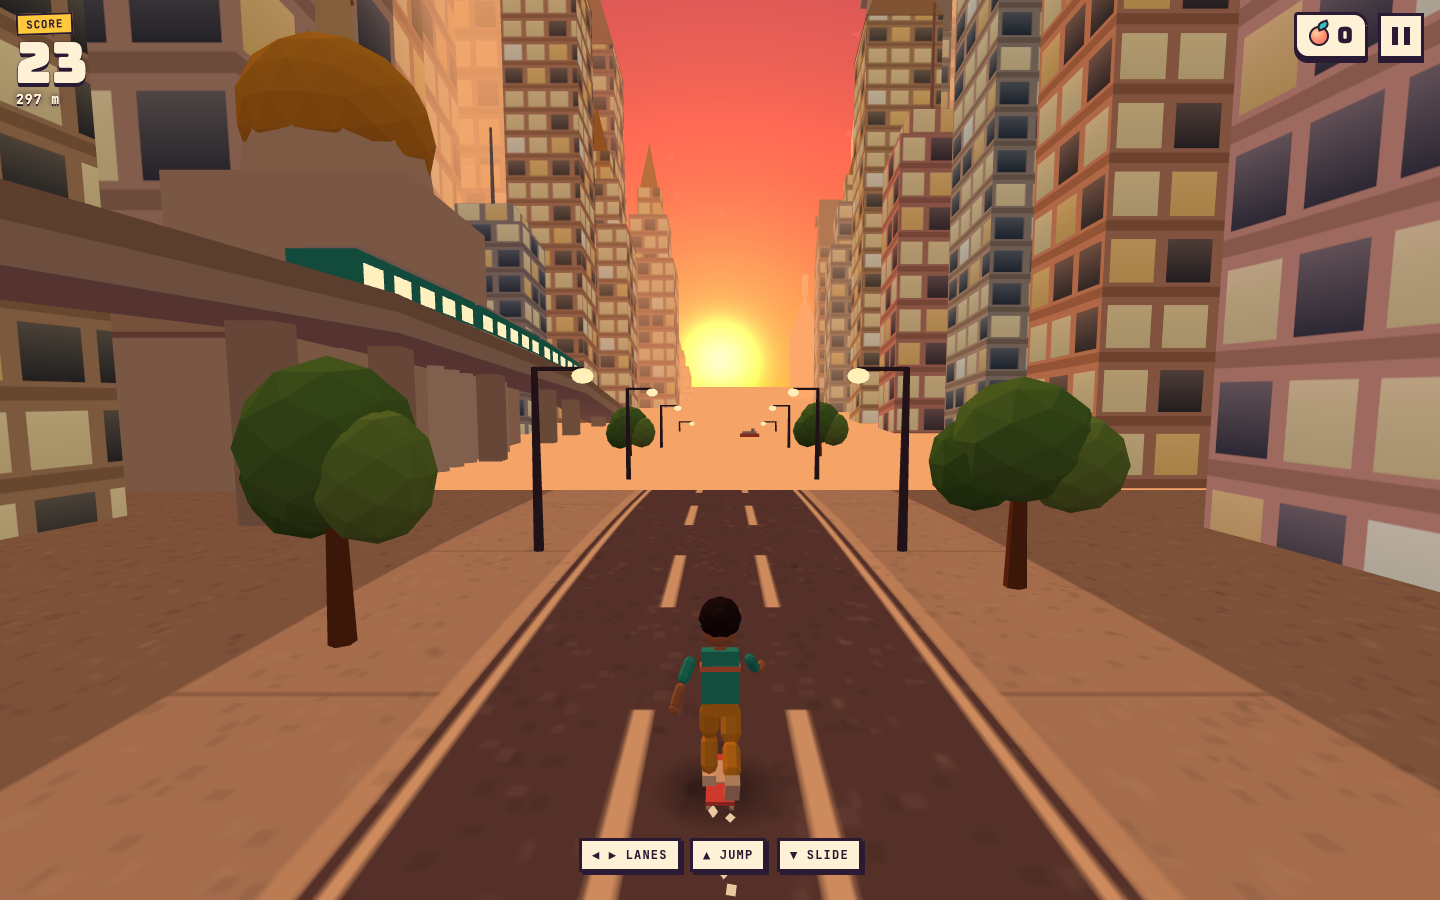
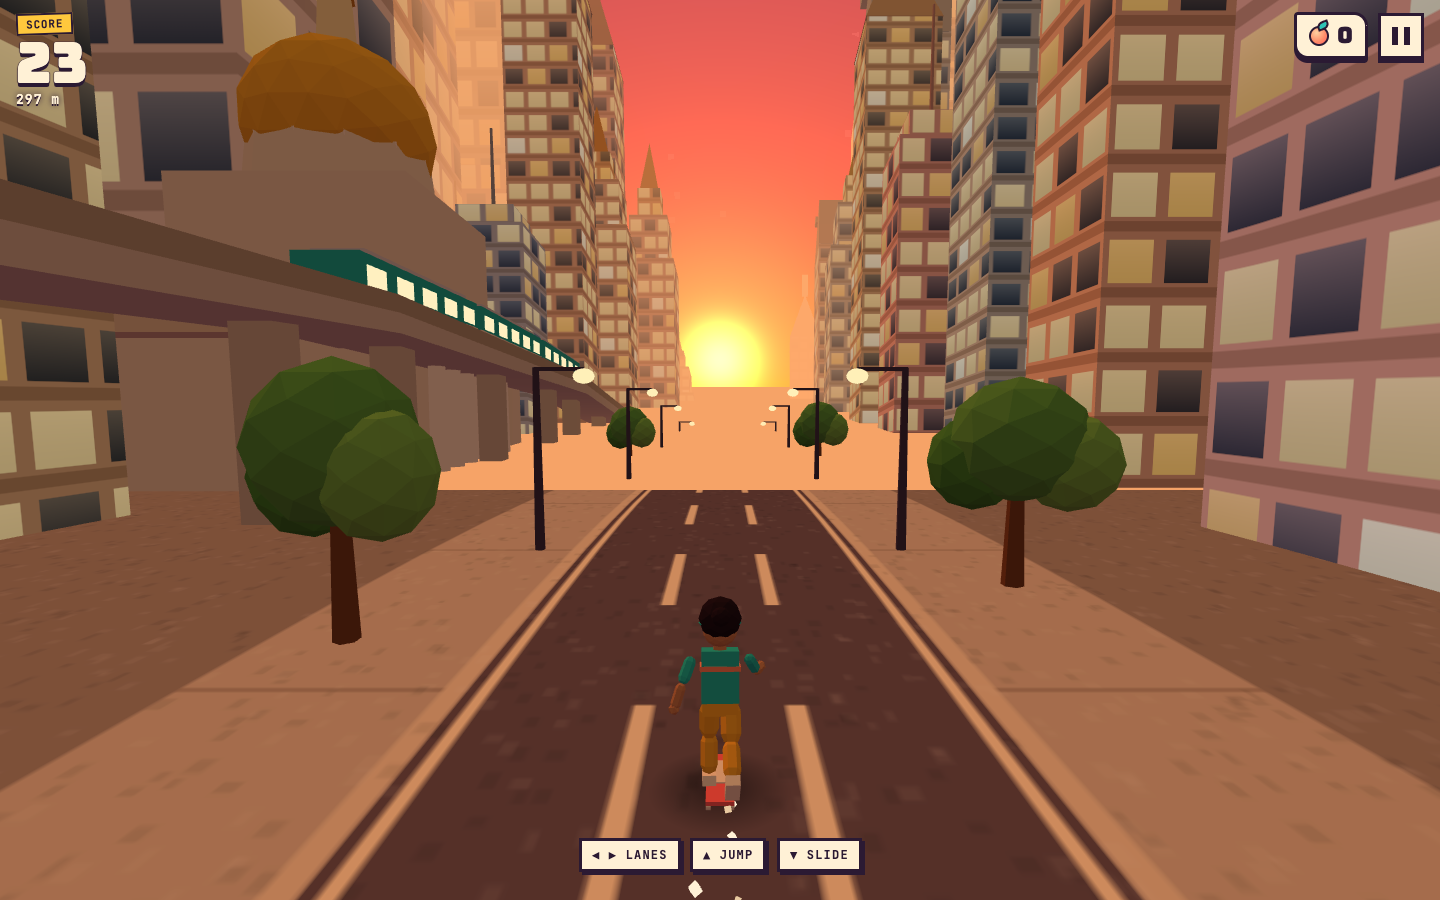
Polish: pink-gold peaches with leaf and seam, compact district strip, rim-lit obstacles, title scrim, single NEW HIGH SCORE, brighter night

diff --git a/src/game/entities.ts b/src/game/entities.ts
@@ -2,7 +2,7 @@ import * as THREE from 'three'
 import { GeoBuilder, bend, glowTexture, iconTexture } from './gfx'
 import { LANE_W, laneX, type Obstacle, type Sim } from '../core/sim'
 
-const TRUCK_COLORS = [0xff6b5b, 0x2ec4b6, 0xffc83d]
+const TRUCK_COLORS = [0xff7a66, 0x3fe0d0, 0xffd23d]
 function barrierGeo() {
   const b = new GeoBuilder()
   for (const s of [-1, 1]) b.box(0.12, 0.95, 0.5, s * 0.85, 0, 0, 0xfff1d6)
@@ -13,13 +13,13 @@ function barrierGeo() {
 function conesGeo() {
   const b = new GeoBuilder()
   for (const [x, z] of [[-0.55, 0.15], [0.55, 0.1], [0, -0.2]]) {
-    b.box(0.6, 0.05, 0.6, x, 0, z, 0x3a2a4d); b.cyl(0.06, 0.26, 0.72, x, 0.05, z, 0xff7a2f, 8); b.cyl(0.14, 0.18, 0.12, x, 0.3, z, 0xfff1d6, 8)
+    b.box(0.6, 0.05, 0.6, x, 0, z, 0x6a5a80); b.cyl(0.06, 0.26, 0.72, x, 0.05, z, 0xff7a2f, 8); b.cyl(0.14, 0.18, 0.12, x, 0.3, z, 0xfff1d6, 8)
   }
   return b.build()
 }
 function truckGeo(variant: number) {
   const b = new GeoBuilder(), c = TRUCK_COLORS[variant % 3]
-  b.box(2.0, 0.5, 4.9, 0, 0.35, 0, 0x3a2a4d)
+  b.box(2.0, 0.5, 4.9, 0, 0.35, 0, 0x6a5a80)
   b.box(2.0, 2.3, 3.3, 0, 0.9, -0.75, c); b.box(2.0, 1.55, 1.35, 0, 0.9, 1.85, c)
   b.box(1.75, 0.7, 0.05, 0, 1.8, 2.54, 0x9fd8e8); b.box(2.08, 0.22, 0.2, 0, 0.5, 2.5, 0xfff1d6)
   b.ball(0.12, -0.7, 1.0, 2.55, 0xfff0b8, 1, 1, 0.5, 0); b.ball(0.12, 0.7, 1.0, 2.55, 0xfff0b8, 1, 1, 0.5, 0)
@@ -36,22 +36,36 @@ function truckGeo(variant: number) {
 }
 function signGeo(span: number) {
   const b = new GeoBuilder(), W = span * LANE_W - 0.2, px = span * LANE_W / 2 + 0.05
-  b.box(W, 1.85, 0.28, 0, 1.55, 0, 0x2ec4b6); b.box(W + 0.2, 0.12, 0.34, 0, 3.4, 0, 0x3a2a4d)
+  b.box(W, 1.85, 0.28, 0, 1.55, 0, 0x3fe0d0); b.box(W + 0.2, 0.12, 0.34, 0, 3.4, 0, 0x6a5a80)
   b.box(W * 0.92, 0.5, 0.3, 0, 2.55, 0, 0xff8f6b)
-  const n = Math.round(W / 0.5); for (let i = 0; i < n; i++) b.box(W / n, 0.22, 0.32, -W / 2 + (i + 0.5) * W / n, 1.55, 0, i % 2 ? 0xffc83d : 0x3a2a4d)
+  const n = Math.round(W / 0.5); for (let i = 0; i < n; i++) b.box(W / n, 0.22, 0.32, -W / 2 + (i + 0.5) * W / n, 1.55, 0, i % 2 ? 0xffc83d : 0x6a5a80)
   for (let i = 0; i < span * 3; i++) b.box(0.4, 0.26, 0.31, -W / 2 + 0.7 + i * (W - 1.2) / Math.max(1, span * 3 - 1), 2.55, 0, 0xfff1d6)
-  for (const s of [-1, 1]) { b.cyl(0.11, 0.13, 3.4, s * px, 0, 0, 0x3a2a4d, 6); b.ball(0.13, s * px, 3.5, 0, 0xffb347, 1, 1, 1, 0) }
+  for (const s of [-1, 1]) { b.cyl(0.11, 0.13, 3.4, s * px, 0, 0, 0x6a5a80, 6); b.ball(0.13, s * px, 3.5, 0, 0xffb347, 1, 1, 1, 0) }
   return b.build()
 }
 function peachGeo() {
   const b = new GeoBuilder()
-  b.ball(0.32, 0, 0, 0, 0xffa05f, 1, 0.96, 1, 2); b.ball(0.22, 0.12, -0.04, -0.2, 0xff6b6b, 1, 1, 0.5, 1)
-  b.box(0.16, 0.03, 0.08, 0.08, 0.34, 0, 0x4f9f3d, { rz: 0.5 }); b.box(0.03, 0.12, 0.03, 0, 0.31, 0, 0x6b4a3a)
+  b.ball(0.32, 0, 0, 0, 0xffc383, 1, 0.97, 1, 2)                                   // gold body
+  b.ball(0.24, 0.1, 0.02, -0.12, 0xff93a4, 1, 1, 0.7, 1)                           // pink blush
+  b.box(0.035, 0.5, 0.05, 0, -0.26, -0.3, 0xd9546e, { rz: 0.0, rx: 0.12 })        // cleft seam
+  b.box(0.03, 0.1, 0.03, 0, 0.3, 0, 0x6b4a3a)                                      // stem
+  b.box(0.3, 0.035, 0.14, 0.17, 0.4, 0, 0x2fbf4f, { rz: 0.45 })                    // leaf
+  b.box(0.22, 0.035, 0.11, -0.12, 0.38, 0.05, 0x58d36a, { rz: -0.5, ry: 0.6 })     // second leaf
   return b.build()
+}
+function rimMat(m: THREE.MeshLambertMaterial) {
+  const prev = m.onBeforeCompile
+  m.onBeforeCompile = (sh, r) => {
+    prev.call(m, sh, r)
+    sh.fragmentShader = sh.fragmentShader.replace('#include <dithering_fragment>',
+      'float rim = pow(1.0 - clamp(dot(normalize(normal), normalize(vViewPosition)), 0.0, 1.0), 2.2);\n gl_FragColor.rgb += vec3(1.0, 0.86, 0.62) * rim * 0.5;\n #include <dithering_fragment>')
+  }
+  m.customProgramCacheKey = () => 'rim'
+  return m
 }
 function padGeo() {
   const b = new GeoBuilder()
-  b.box(2.0, 0.05, 3.6, 0, 0, 0, 0x3a2a4d)
+  b.box(2.0, 0.05, 3.6, 0, 0, 0, 0x6a5a80)
   for (let i = 0; i < 3; i++) { for (const s of [-1, 1]) b.box(1.2, 0.07, 0.28, s * 0.46, 0.0, -1.1 + i * 1.05 + 0.0, 0xffd04a, { ry: -s * 0.75 }) }
   return b.build()
 }
@@ -67,8 +81,8 @@ export class Entities {
   shadow: THREE.Mesh
   private d = new THREE.Object3D()
   constructor(public scene: THREE.Scene) {
-    this.propMat = bend(new THREE.MeshLambertMaterial({ vertexColors: true }))
-    const pm = bend(new THREE.MeshLambertMaterial({ vertexColors: true, emissive: 0x6a2a10 }))
+    this.propMat = rimMat(bend(new THREE.MeshLambertMaterial({ vertexColors: true, emissive: 0x4a3038 })))
+    const pm = bend(new THREE.MeshLambertMaterial({ vertexColors: true, emissive: 0xa04a3a }))
     this.peaches = new THREE.InstancedMesh(peachGeo(), pm, 220); this.peaches.frustumCulled = false; this.peaches.count = 0; scene.add(this.peaches)
     const padMat = bend(new THREE.MeshBasicMaterial({ vertexColors: true }))
     const pg = padGeo()

diff --git a/src/style.css b/src/style.css
@@ -32,6 +32,9 @@ html,body{margin:0;height:100%;overflow:hidden;background:#ffc98b;color:var(--cr
 .ribbon{display:inline-block;background:var(--ink);color:var(--gold);font:700 13px var(--mono);letter-spacing:.22em;padding:7px 14px;transform:rotate(-2deg);box-shadow:4px 4px 0 var(--peach)}
 
 /* title */
+#title::before{content:'';position:absolute;inset:0;pointer-events:none;background:linear-gradient(90deg,rgba(43,26,51,.55),rgba(43,26,51,.22) 42%,transparent 68%)}
+@media (max-aspect-ratio:1/1){#title::before{background:linear-gradient(180deg,rgba(43,26,51,.5),transparent 45%)}}
+#title>*{position:relative}
 #title .logo{position:absolute;left:calc(var(--sal) + 20px);top:calc(var(--sat) + 74px);max-width:none}
 #title h1{margin:14px 0 6px;font:400 clamp(70px,13vw,150px)/.84 var(--display);transform:rotate(-4deg);transform-origin:left bottom}
 #title h1>span{display:block;white-space:nowrap}
@@ -103,10 +106,10 @@ html,body{margin:0;height:100%;overflow:hidden;background:#ffc98b;color:var(--cr
 .callout small{display:block;font:700 16px var(--mono);letter-spacing:.2em;color:var(--gold);-webkit-text-stroke:0;text-shadow:0 2px 0 var(--ink);margin-top:6px}
 .callout.go{animation:callout .95s var(--spring) both}
 @keyframes callout{0%{opacity:0;transform:translateX(-50%) scale(.3) rotate(-8deg)}18%{opacity:1;transform:translateX(-50%) scale(1.18) rotate(2deg)}30%{transform:translateX(-50%) scale(1)}78%{opacity:1}100%{opacity:0;transform:translateX(-50%) translateY(-30px) scale(.95)}}
-.district{position:absolute;left:0;top:44%;background:var(--ink);color:var(--cream);padding:10px 26px 10px calc(var(--sal) + 18px);transform:translateX(-160%) skewX(-8deg);border-right:8px solid var(--coral);box-shadow:6px 6px 0 var(--gold)}
-.district small{display:block;font:700 10px var(--mono);letter-spacing:.3em;color:var(--gold)}.district b{font:400 clamp(24px,6vw,36px) var(--display)}.district em{display:block;font:500 11px var(--mono);font-style:normal;color:var(--peach)}
+.district{position:absolute;right:0;top:calc(var(--sat) + 72px);background:var(--ink);color:var(--cream);padding:5px calc(var(--sar) + 14px) 5px 18px;transform:translateX(160%) skewX(-8deg);border-left:6px solid var(--coral);box-shadow:-3px 3px 0 var(--gold);text-align:right;max-width:70vw}
+.district small{display:none}.district b{font:400 clamp(15px,4vw,22px) var(--display)}.district em{display:block;font:500 10px var(--mono);font-style:normal;color:var(--peach)}
 .district.go{animation:banner 3s cubic-bezier(.2,1,.3,1) both}
-@keyframes banner{0%{transform:translateX(-160%) skewX(-8deg)}12%{transform:translateX(0) skewX(-8deg)}80%{transform:translateX(0) skewX(-8deg)}100%{transform:translateX(-160%) skewX(-8deg)}}
+@keyframes banner{0%{transform:translateX(160%) skewX(-8deg)}12%{transform:translateX(0) skewX(-8deg)}80%{transform:translateX(0) skewX(-8deg)}100%{transform:translateX(160%) skewX(-8deg)}}
 .hint{position:absolute;left:0;right:0;bottom:calc(var(--sab) + 28px);display:flex;justify-content:center;gap:10px;flex-wrap:wrap;transition:opacity .6s}
 .hint span{background:var(--cream);color:var(--ink);border:3px solid var(--ink);padding:6px 10px;font:700 12px var(--mono);letter-spacing:.1em;box-shadow:3px 3px 0 var(--ink);animation:slide .4s var(--spring) both}
 .hint.off{opacity:0}
@@ -115,7 +118,7 @@ html,body{margin:0;height:100%;overflow:hidden;background:#ffc98b;color:var(--cr
 .panel.wide{width:min(480px,calc(100vw - 28px));gap:12px}
 .o-score{text-align:center;position:relative}.o-score small{display:block;color:var(--coral);font-size:12px}
 .o-score b{font:400 clamp(54px,14vw,84px)/1 var(--display);color:var(--ink);text-shadow:3px 3px 0 var(--gold)}
-.o-score em{position:absolute;right:0;top:4px;font:400 15px var(--display);font-style:normal;background:var(--coral);color:var(--cream);padding:3px 9px;transform:rotate(6deg);border:2.5px solid var(--ink);display:none}
+.o-score em.x{position:absolute;right:0;top:4px;font:400 15px var(--display);font-style:normal;background:var(--coral);color:var(--cream);padding:3px 9px;transform:rotate(6deg);border:2.5px solid var(--ink);display:none}
 .o-score em.on{display:block;animation:pulse .5s var(--spring)}
 .grid{display:grid;grid-template-columns:1fr 1fr;gap:8px}.cell{background:#fff8e8;border:2.5px solid var(--ink);padding:6px 10px;font:700 11px var(--mono);letter-spacing:.08em}.cell b{display:block;font:400 22px var(--display);letter-spacing:0}
 .o-daily{font:700 12px var(--mono)}

diff --git a/src/game/world.ts b/src/game/world.ts
@@ -18,8 +18,8 @@ interface Key { t: number; top: string; hor: string; sun: string; sunH: number; 
 const KEYS: Key[] = [
   { t: 0.0, top: '#6fa8dc', hor: '#ffc98b', sun: '#ffe0a0', sunH: 0.1, hemiS: '#ffe9c8', hemiG: '#d19a76', hemiI: 1.05, dir: '#ffc07a', dirI: 1.7, win: 0, stars: 0 },
   { t: 0.24, top: '#e8708a', hor: '#ff9a5a', sun: '#ffb070', sunH: 0.0, hemiS: '#ffc0a0', hemiG: '#9a6080', hemiI: 0.95, dir: '#ff8a5a', dirI: 1.3, win: 0.45, stars: 0.1 },
-  { t: 0.5, top: '#243a86', hor: '#d0608a', sun: '#000000', sunH: -0.4, hemiS: '#9aa6f0', hemiG: '#6a4a78', hemiI: 0.95, dir: '#9fb0ff', dirI: 0.7, win: 1, stars: 1 },
-  { t: 0.78, top: '#34478e', hor: '#f58a7a', sun: '#ffb080', sunH: -0.06, hemiS: '#b8aee0', hemiG: '#8a5a68', hemiI: 0.95, dir: '#ffa080', dirI: 0.9, win: 0.6, stars: 0.5 },
+  { t: 0.5, top: '#243a86', hor: '#d0608a', sun: '#000000', sunH: -0.4, hemiS: '#b4bdff', hemiG: '#8a6a98', hemiI: 1.2, dir: '#b4c0ff', dirI: 1.0, win: 1, stars: 1 },
+  { t: 0.78, top: '#34478e', hor: '#f58a7a', sun: '#ffb080', sunH: -0.06, hemiS: '#c8bef0', hemiG: '#a06a78', hemiI: 1.15, dir: '#ffa080', dirI: 1.1, win: 0.6, stars: 0.5 },
   { t: 1.0, top: '#6fa8dc', hor: '#ffc98b', sun: '#ffe0a0', sunH: 0.1, hemiS: '#ffe9c8', hemiG: '#d19a76', hemiI: 1.05, dir: '#ffc07a', dirI: 1.7, win: 0, stars: 0 },
 ]
 const SKY_VS = `varying vec3 vDir; void main(){ vDir = normalize(position); gl_Position = projectionMatrix * modelViewMatrix * vec4(position,1.0); gl_Position.z = gl_Position.w; }`

diff --git a/src/main.ts b/src/main.ts
@@ -193,7 +193,6 @@ class Game {
     const r = this.commit(), s = this.sim, m = dailyMission(this.today)
     this.mode = 'over'; this.show('over')
     $('o-score').textContent = Math.floor(s.score).toLocaleString()
-    $('o-new').classList.toggle('on', r.isBest && s.score > 0)
     $('o-grid').innerHTML = [['DISTANCE', `${Math.floor(s.dist)} m`], ['PEACHES', `+${Math.floor(s.peaches)}`], ['NEAR MISSES', s.stats.near], ['BEST COMBO', s.stats.maxCombo]].map(([a, b]) => `<div class="cell">${a}<b>${b}</b></div>`).join('')
     const dp = this.save.daily
     $('o-daily').innerHTML = r.reward ? `DAILY COMPLETE: ${m.text} <b>+${r.reward}</b> peaches` : dp.claimed ? 'DAILY MISSION DONE. COME BACK TOMORROW.' : `DAILY: ${m.text} (${Math.min(dp.progress, m.target)}/${m.target})`

diff --git a/index.html b/index.html
@@ -87,7 +87,7 @@
     <section id="over" class="screen dim">
       <div class="panel wide">
         <div class="ribbon" id="o-ribbon">WIPED OUT</div>
-        <div class="o-score"><small class="mono">SCORE</small><b id="o-score">0</b><em id="o-new">NEW BEST</em></div>
+        <div class="o-score"><small class="mono">SCORE</small><b id="o-score">0</b></div>
         <div class="grid" id="o-grid"></div>
         <div class="o-daily" id="o-daily"></div>
         <button class="btn big second" id="o-second" data-act="second"></button>
